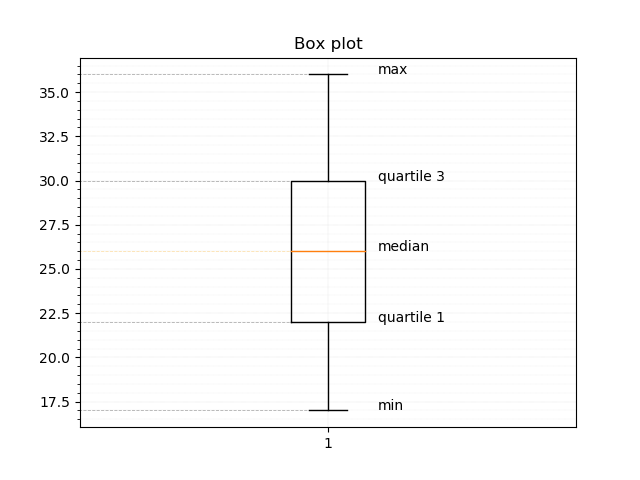
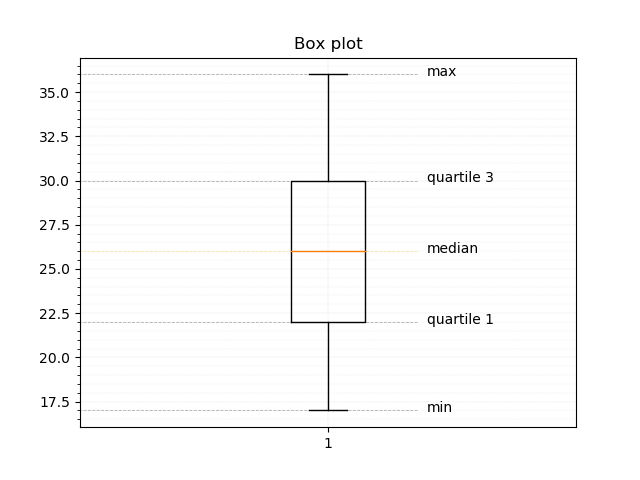
Fixed statistic methods

diff --git a/Lab1/graphic.py b/Lab1/graphic.py
@@ -144,18 +144,18 @@ class Graphic:
         ax.grid(which='minor', linestyle=':', linewidth=0.125)
 
         ax.boxplot(data)
-        ax.text(1.1, min_x, "min")
-        ax.text(1.1, max_x, "max")
-        ax.text(1.1, q1, "quartile 1")
-        ax.text(1.1, q2, "median")
-        ax.text(1.1, q3, "quartile 3")
+        ax.text(1.2, min_x - 0.1, "min")
+        ax.text(1.2, max_x - 0.1, "max")
+        ax.text(1.2, q1 - 0.1, "quartile 1")
+        ax.text(1.2, q2 - 0.1, "median")
+        ax.text(1.2, q3 - 0.1, "quartile 3")
         ylim = ax.get_ylim()
         xlim = ax.get_xlim()
-        ax.plot([0, 1], [max_x, max_x], linewidth=0.6, color='black', linestyle='--', alpha=0.3)
-        ax.plot([0, 1], [min_x, min_x], linewidth=0.6, color='black', linestyle='--', alpha=0.3)
-        ax.plot([0, 1], [q1, q1], linewidth=0.6, color='black', linestyle='--', alpha=0.3)
-        ax.plot([0, 1], [q2, q2], linewidth=0.6, color='orange', linestyle='--', alpha=0.3)
-        ax.plot([0, 1], [q3, q3], linewidth=0.6, color='black', linestyle='--', alpha=0.3)
+        ax.plot([0, 1.18], [max_x, max_x], linewidth=0.6, color='black', linestyle='--', alpha=0.3)
+        ax.plot([0, 1.18], [min_x, min_x], linewidth=0.6, color='black', linestyle='--', alpha=0.3)
+        ax.plot([0, 1.18], [q1, q1], linewidth=0.6, color='black', linestyle='--', alpha=0.3)
+        ax.plot([0, 1.18], [q2, q2], linewidth=0.6, color='orange', linestyle='--', alpha=0.3)
+        ax.plot([0, 1.18], [q3, q3], linewidth=0.6, color='black', linestyle='--', alpha=0.3)
         ax.set_ylim(ylim)
         ax.set_xlim(xlim)
         # plt.show()
